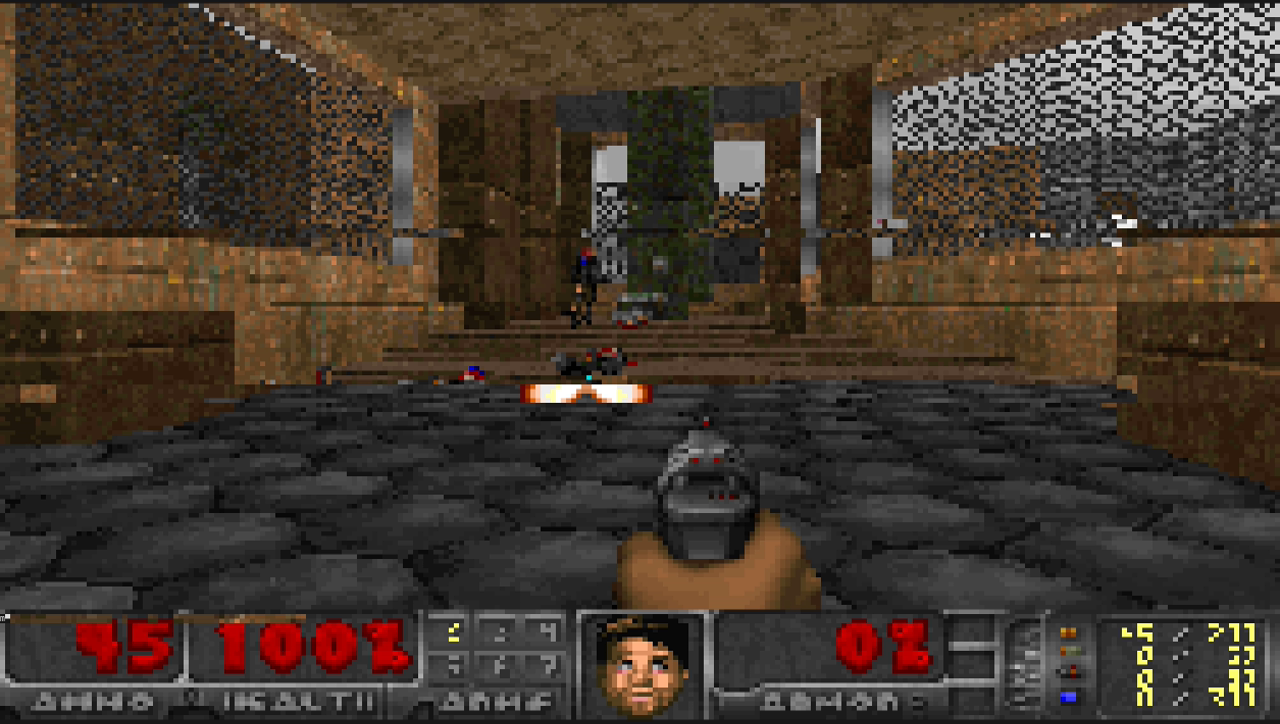
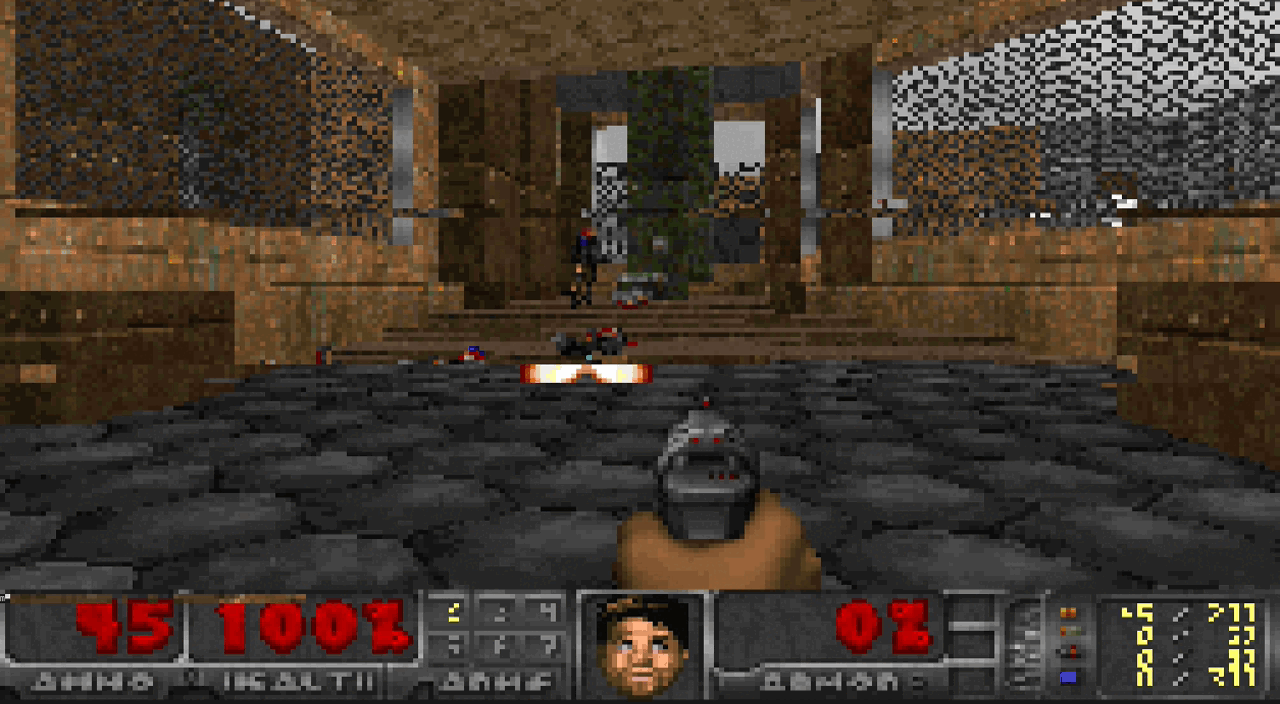
refactor(docs): simplify the screenshot tape and shrink the image
- Wait on the prompt instead of a computed marker, drop the default
  shell setting, and time the capture from the HUD appearing
- Record the throwaway GIF at 1 fps and quantize the PNG to 256 colours,
  halving it

diff --git a/README.md b/README.md
@@ -66,7 +66,7 @@ covers the engine's direct `exit()` call).
 
   ```sh
   ./fetch-wad.sh && vhs assets/demo.tape
-  magick assets/screenshot.png -gravity north -chop 0x20 +repage -trim +repage assets/screenshot.png
+  magick assets/screenshot.png -chop 0x20 +repage -trim +repage -colors 256 assets/screenshot.png
   optipng -quiet assets/screenshot.png
   ```
 
